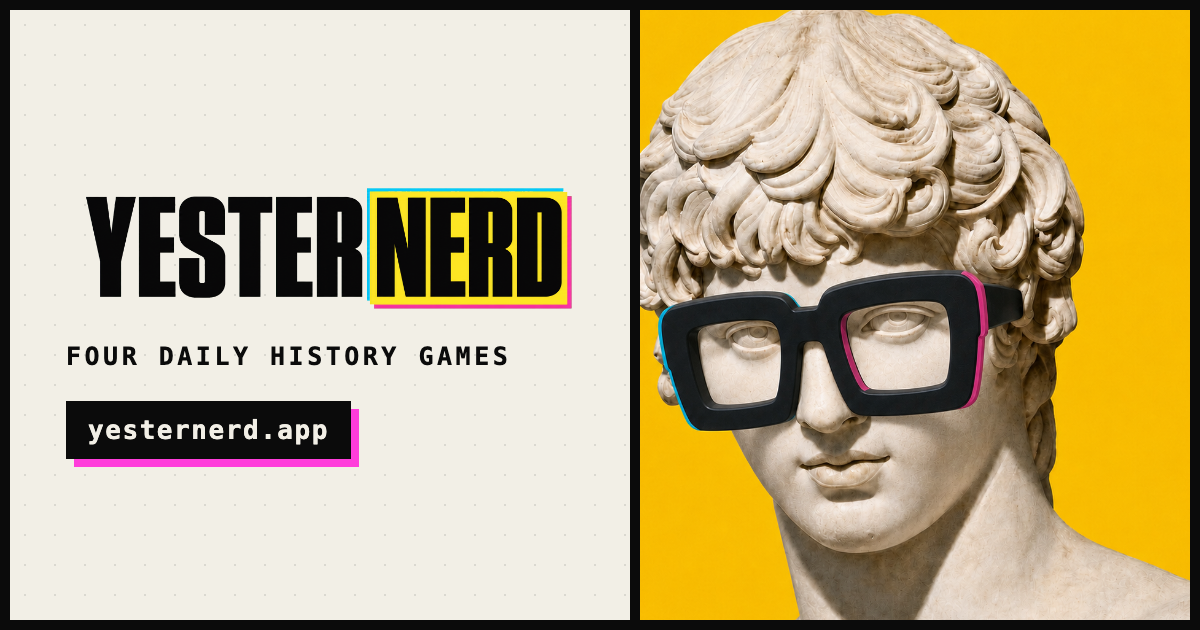
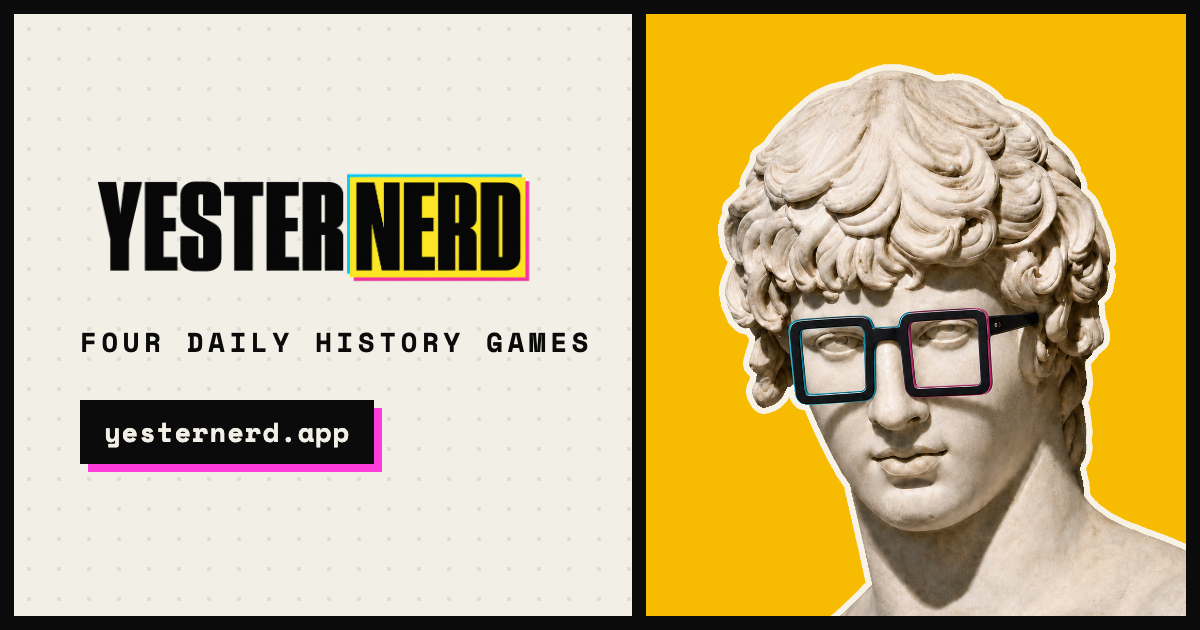
Social card: square-glasses Antinous (the approved face) + live template (v168)
The unfurl card still wore the rectangular frames; the approved identity is
the square-lens die-cut (Daniel's report, 4 Aug evening). Rebuilt from the
high-res concepts die-cut v2 on the yellow plate — the sticker outline now
matches the masthead language. tools/social-card.html was still the retired
Dead Famous design; it is now the real generator for this card, so the next
regen is a 30-second screenshot. BUILD v168 + VERSION yesternerd-v168.

diff --git a/tools/social-card.html b/tools/social-card.html
@@ -1,51 +1,54 @@
 <!doctype html>
-<!-- Social-card generator: open at exactly 1200x630 and screenshot body.
-     Output lives at assets/brand/social-card.png and is referenced by the
-     og:image / twitter:image tags in index.html. Regenerate + re-shoot after
-     any rebrand, then re-crush (see LAUNCH notes). Not part of the app. -->
+<!-- Social-card generator (Yesternerd, rebuilt 4 Aug 2026 — the previous
+     version of this file was the retired Dead Famous card). Open at exactly
+     1200x630 and screenshot body (tools: playwright, see scratchpad
+     socialshot.py pattern). Output lives at assets/brand/social-card.png and
+     is referenced by og:image / twitter:image in index.html.
+     The statue is the APPROVED square-glasses die-cut (concepts/…-v2). -->
 <html lang="en">
 <head>
 <meta charset="utf-8">
 <style>
-@font-face {font-family:'DF Slab';src:url('../assets/fonts/archivo-black.woff2') format('woff2');}
 @font-face {font-family:'DF Mono';src:url('../assets/fonts/space-mono-bold.woff2') format('woff2');font-weight:700;}
-@font-face {font-family:'DF Text';src:url('../assets/fonts/archivo-regular.woff2') format('woff2');}
 *{margin:0;padding:0;box-sizing:border-box;}
 body{
   width:1200px;height:630px;overflow:hidden;position:relative;
-  background:#F2EFE6;
-  background-image:radial-gradient(rgba(11,11,11,.09) 2px,transparent 2.4px);
-  background-size:28px 28px;
-  font-family:'DF Text',Arial,sans-serif;color:#0B0B0B;
+  background:#0B0B0B;
 }
-.inner{position:absolute;inset:0;padding:64px 70px;}
-h1{font-family:'DF Slab','Arial Black',sans-serif;font-size:132px;line-height:.9;text-transform:uppercase;letter-spacing:-0.015em;}
-.rule{width:610px;height:9px;background:#0B0B0B;margin-top:26px;}
-.dateline{font-family:'DF Mono',monospace;font-weight:700;font-size:25px;letter-spacing:.14em;text-transform:uppercase;margin-top:20px;}
-.tagline{font-size:30px;line-height:1.35;margin-top:16px;max-width:600px;}
-.tagline b{background:#FFE93B;padding:0 8px;}
-.sticker{position:absolute;right:60px;top:40px;width:330px;transform:rotate(7deg);}
-.icons{position:absolute;left:70px;bottom:46px;display:flex;gap:24px;align-items:center;}
-.icons img{width:92px;height:92px;border:4px solid #0B0B0B;background:#FFF;box-shadow:6px 6px 0 #0B0B0B;}
-.free{position:absolute;right:64px;bottom:70px;font-family:'DF Mono',monospace;font-weight:700;
-  font-size:22px;letter-spacing:.1em;text-transform:uppercase;color:#E02020;
-  border:5px solid #E02020;padding:8px 18px;transform:rotate(-5deg);}
+.left{
+  position:absolute;left:14px;top:14px;bottom:14px;width:618px;
+  background:#F2EFE6;
+  background-image:radial-gradient(rgba(11,11,11,.08) 2px,transparent 2.4px);
+  background-size:30px 30px;
+  padding:0 66px;display:flex;flex-direction:column;justify-content:center;gap:38px;
+}
+.wordmark{width:462px;display:block;}
+.tag{
+  font-family:'DF Mono',monospace;font-weight:700;font-size:27px;
+  letter-spacing:.18em;text-transform:uppercase;color:#0B0B0B;white-space:nowrap;
+}
+.plate{
+  align-self:flex-start;background:#0B0B0B;color:#F2EFE6;
+  font-family:'DF Mono',monospace;font-weight:700;font-size:27px;letter-spacing:.04em;
+  padding:12px 24px;box-shadow:8px 8px 0 #FF3DDB;
+}
+.right{
+  position:absolute;right:14px;top:14px;bottom:14px;left:646px;
+  background:rgb(247,188,2);overflow:hidden;
+}
+.right img{
+  position:absolute;width:660px;left:-50px;top:22px;display:block;
+}
 </style>
 </head>
 <body>
-  <div class="inner">
-    <h1>Dead<br>Famous</h1>
-    <div class="rule"></div>
-    <p class="dateline">A new issue every midnight</p>
-    <p class="tagline"><b>Four little history games</b> a day. Same issue as everyone else. No sign-up.</p>
-    <div class="icons">
-      <img src="../assets/brand/game-icon-thread.png" alt="">
-      <img src="../assets/brand/game-icon-lifeline.png" alt="">
-      <img src="../assets/brand/game-icon-face-value.png" alt="">
-      <img src="../assets/brand/game-icon-relic.png" alt="">
-    </div>
-    <div class="free">Free · No app store</div>
+  <div class="left">
+    <img class="wordmark" src="../assets/brand/yesternerd-wordmark-primary-v2.png" alt="Yesternerd">
+    <p class="tag">Four daily history games</p>
+    <p class="plate">yesternerd.app</p>
   </div>
-  <img class="sticker" src="../assets/brand/antinous-sticker.png" alt="">
+  <div class="right">
+    <img src="../assets/brand/concepts/yesternerd-antinous-square-glasses-diecut-sticker-v2.png" alt="">
+  </div>
 </body>
 </html>

diff --git a/sw.js b/sw.js
@@ -7,7 +7,7 @@
 //   new worker precaches the shell, skipWaiting+claim take over immediately ->
 //   app.js sees controllerchange and shows the NEW EDITION bar -> the user's
 //   pull-to-refresh (or a tap on the bar) reloads into the new version.
-const VERSION = 'yesternerd-v167';
+const VERSION = 'yesternerd-v168';
 
 // Daily-content cache: survives version bumps so updating the app never
 // re-downloads the whole archive, served stale-while-revalidate below.

diff --git a/js/app.js b/js/app.js
@@ -1,7 +1,7 @@
 // Boot, data loading, view router, home screen.
 // BUILD is shown in the home footer; bump it together with sw.js VERSION on
 // every deploy so what phones display always names what they are running.
-const BUILD = 'v167';
+const BUILD = 'v168';
 
 // iOS (incl. iPadOS, which masquerades as MacIntel) gets the OS's own
 // overscroll physics back — style.css keys native rubber-banding off this
